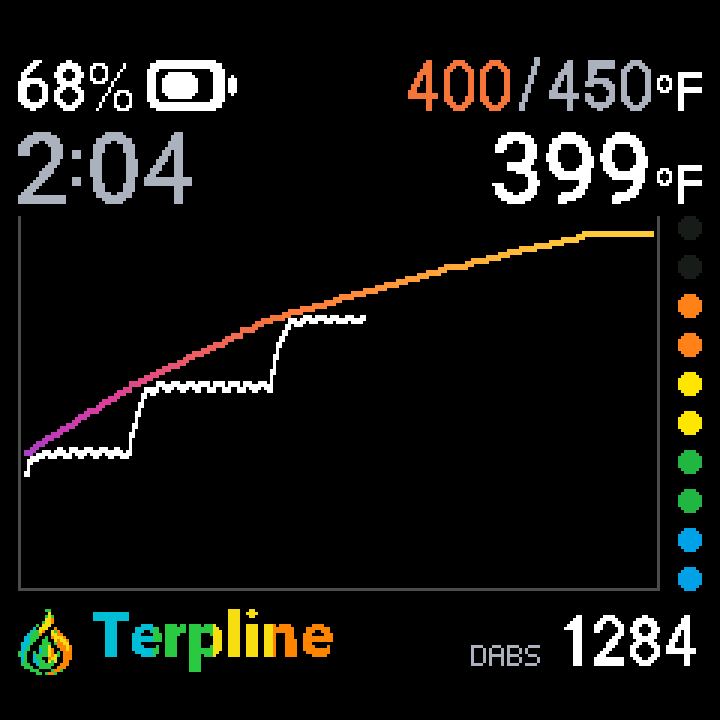
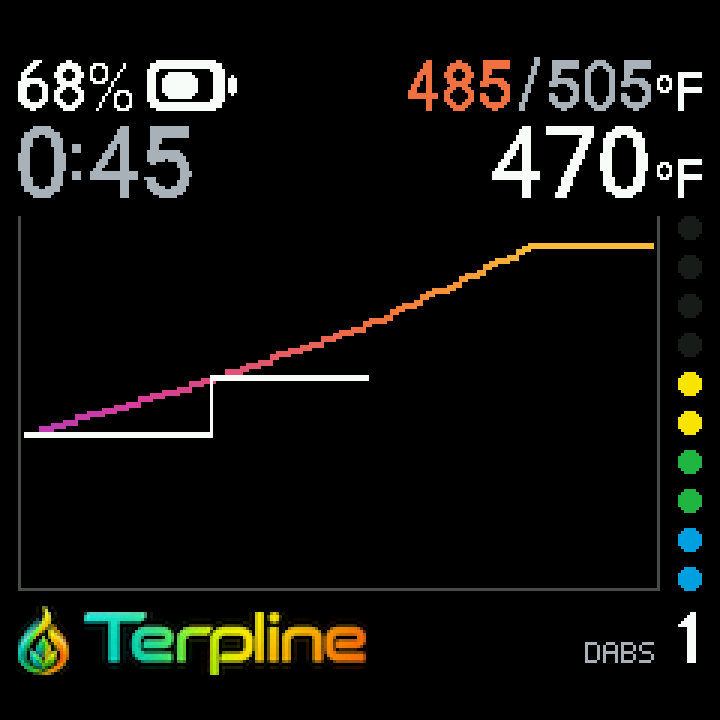
Carta 2 README: the ramp screen picture is the current render

diff --git a/carta2/README.md b/carta2/README.md
@@ -10,7 +10,7 @@
 Runs a Terpline-uploaded ramp of up to 5 stages on the device itself. While a ramp runs, the
 heating screen is replaced by the ramp screen, and the buttons change meaning.
 
-![Mockup of the ramp screen](ramp-mockup.png)
+![The ramp screen, as the display test renders it from the real drawing code](ramp-mockup.png)
 
 *A rendered mockup, not a photo: the screen's drawing logic run against the real glyph
 bitmaps from this build. Scenario: stage 3 of 5, 41 s into a 75 s stage, 68% battery. The
